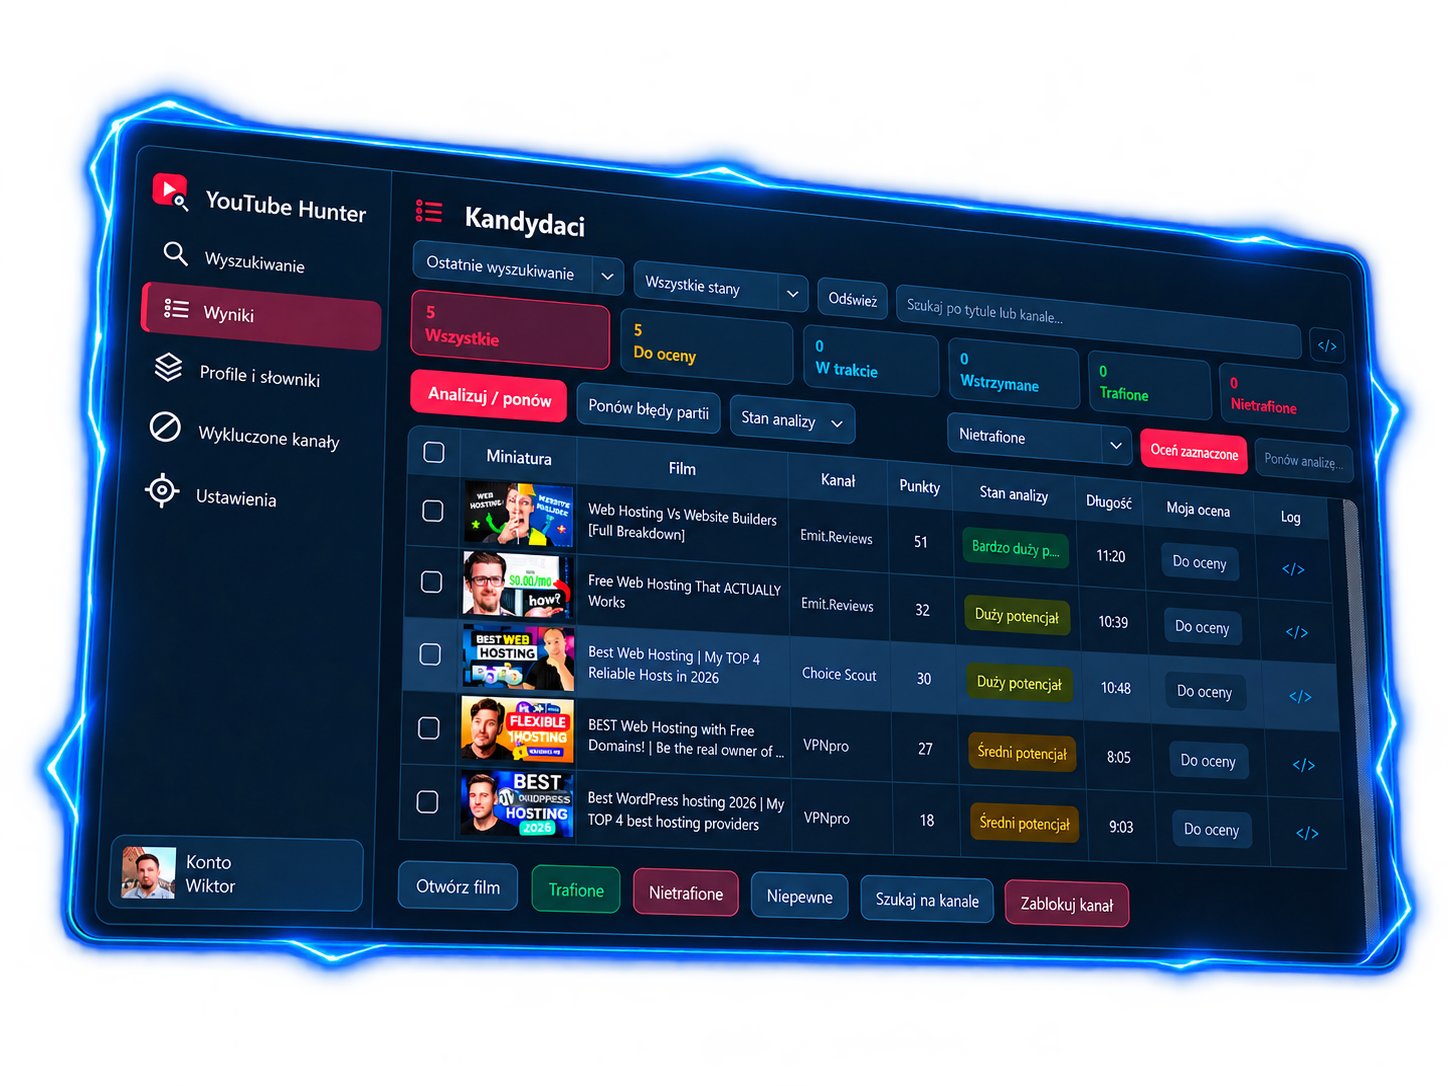
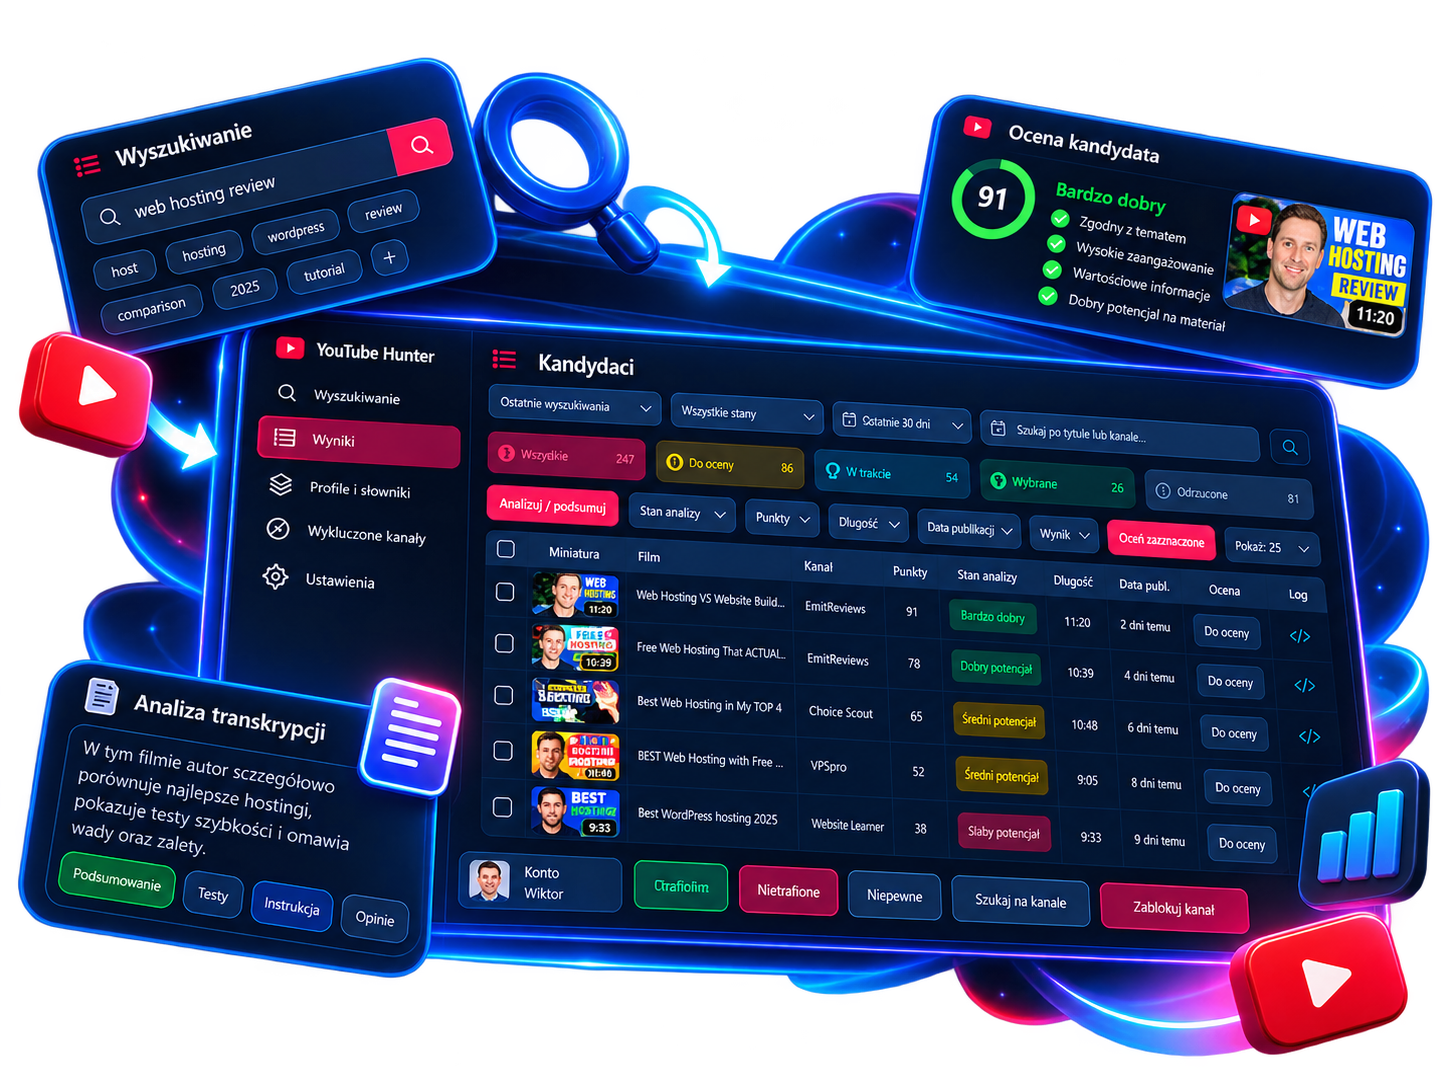
Replace YouTube Hunter portfolio artwork

diff --git a/assets/css/style.scss b/assets/css/style.scss
@@ -880,7 +880,7 @@ body.header-hidden .site-header:not(:focus-within) { transform: translate3d(0, -
 .product-hero .product-tags { margin-top: 23px; }
 .hunter-project .product-actions { margin-top: 42px; }
 .hunter-hero-visual { display: grid; align-items: center; margin: 0; }
-.hunter-hero-image { display: block; width: 100%; height: auto; filter: drop-shadow(0 20px 28px rgba(0, 0, 0, .3)); transform: scale(1.1); }
+.hunter-hero-image { display: block; width: 100%; height: auto; filter: drop-shadow(0 20px 28px rgba(0, 0, 0, .3)); }
 .hunter-showcase-art figcaption { color: #8da9c0; font-size: .7rem; text-align: center; }
 .hunter-content { display: grid; min-width: 0; gap: clamp(44px, 4.5vw, 56px); padding-bottom: 48px; }
 .hunter-content > * { min-width: 0; }
@@ -891,7 +891,7 @@ body.header-hidden .site-header:not(:focus-within) { transform: translate3d(0, -
 .hunter-project .project-process .process-steps small { grid-column: 2; }
 .hunter-process-note { margin: 16px 0 0; color: #9fb8cf; font-size: .8rem; line-height: 1.6; }
 .hunter-project .video-screen--pending .hunter-preview { height: 100%; aspect-ratio: auto; border: 0; border-radius: 0; box-shadow: none; filter: blur(2px) brightness(.5); transform: scale(1.02); }
-.project-card-hunter .project-card-image { object-position: 45% top; }
+.project-card-hunter .project-card-image { object-position: center top; }
 .project-card-writing .project-card-image, .project-card-smoke-free .project-card-image { object-fit: contain; object-position: center top; }
 .hunter-card-visual .hunter-preview { transform: rotate(-3deg); -webkit-mask-image: linear-gradient(to bottom, #000 0%, #000 52%, transparent 100%); mask-image: linear-gradient(to bottom, #000 0%, #000 52%, transparent 100%); }
 .hunter-showcase-art { display: grid; align-content: center; justify-items: center; gap: 15px; padding: 32px 30px; }
@@ -920,7 +920,6 @@ body.header-hidden .site-header:not(:focus-within) { transform: translate3d(0, -
 @media (max-width: 1050px) {
   .hunter-hero { grid-template-columns: 1fr; }
   .hunter-hero-visual { width: min(100%, 800px); margin: 28px auto 0; }
-  .hunter-hero-image { transform: none; }
 }
 @media (max-width: 760px) {
   .hunter-hero { width: min(calc(100% - 28px), var(--content-width)); }

diff --git a/index.md b/index.md
@@ -60,7 +60,7 @@ image_alt: VeltoWeb - praktyczne rozwiązania cyfrowe, aplikacje, automatyzacje 
   <div class="project-carousel" data-project-carousel>
     <div id="project-carousel-track" class="project-grid project-carousel-track" role="region" aria-roledescription="karuzela" aria-label="Moje projekty" tabindex="0">
     <article class="project-card project-card-featured project-card-hunter">
-      <div class="project-card-visual hunter-card-visual"><img class="project-card-image" src="{{ '/assets/projects/youtube-hunter/card.png' | relative_url }}" alt="Wizualizacja interfejsu YouTube Hunter z listą filmów do oceny" loading="lazy" width="1448" height="1086"></div>
+      <div class="project-card-visual hunter-card-visual"><img class="project-card-image" src="{{ '/assets/projects/youtube-hunter/card.png' | relative_url }}" alt="Wizualizacja interfejsu YouTube Hunter z listą filmów do oceny" loading="lazy" width="1122" height="1402"></div>
       <div class="project-card-body">
         <div class="card-meta-row"><span class="status-badge status-violet">W fazie testów</span></div>
         <h3>YouTube Hunter</h3>

diff --git a/en/index.md b/en/index.md
@@ -61,7 +61,7 @@ image_alt: VeltoWeb logo on a dark blue background
   <div class="project-carousel" data-project-carousel>
     <div id="project-carousel-track" class="project-grid project-carousel-track" role="region" aria-roledescription="carousel" aria-label="My projects" tabindex="0">
     <article class="project-card project-card-featured project-card-hunter">
-      <div class="project-card-visual hunter-card-visual"><img class="project-card-image" src="{{ '/assets/projects/youtube-hunter/card.png' | relative_url }}" alt="YouTube Hunter interface concept with a list of videos to review" loading="lazy" width="1448" height="1086"></div>
+      <div class="project-card-visual hunter-card-visual"><img class="project-card-image" src="{{ '/assets/projects/youtube-hunter/card.png' | relative_url }}" alt="YouTube Hunter interface concept with a list of videos to review" loading="lazy" width="1122" height="1402"></div>
       <div class="project-card-body">
         <div class="card-meta-row"><span class="status-badge status-violet">In testing</span></div>
         <h3>YouTube Hunter</h3>

diff --git a/en/projects/youtube-hunter/index.md b/en/projects/youtube-hunter/index.md
@@ -23,7 +23,7 @@ image_alt: VeltoWeb logo on a dark blue background
     </div>
   </div>
   <figure class="hunter-hero-visual">
-    <img class="hunter-hero-image" src="{{ '/assets/projects/youtube-hunter/hero.png' | relative_url }}" alt="YouTube Hunter interface concept with a list of videos to review" width="1672" height="941" fetchpriority="high" decoding="async">
+    <img class="hunter-hero-image" src="{{ '/assets/projects/youtube-hunter/hero.png' | relative_url }}" alt="YouTube Hunter interface concept with a list of videos to review" width="1586" height="992" fetchpriority="high" decoding="async">
   </figure>
 </section>
 

diff --git a/projects/youtube-hunter/index.md b/projects/youtube-hunter/index.md
@@ -22,7 +22,7 @@ image_alt: Logo VeltoWeb na granatowym tle
     </div>
   </div>
   <figure class="hunter-hero-visual">
-    <img class="hunter-hero-image" src="{{ '/assets/projects/youtube-hunter/hero.png' | relative_url }}" alt="Wizualizacja interfejsu YouTube Hunter z listą filmów do oceny" width="1672" height="941" fetchpriority="high" decoding="async">
+    <img class="hunter-hero-image" src="{{ '/assets/projects/youtube-hunter/hero.png' | relative_url }}" alt="Wizualizacja interfejsu YouTube Hunter z listą filmów do oceny" width="1586" height="992" fetchpriority="high" decoding="async">
   </figure>
 </section>
 
